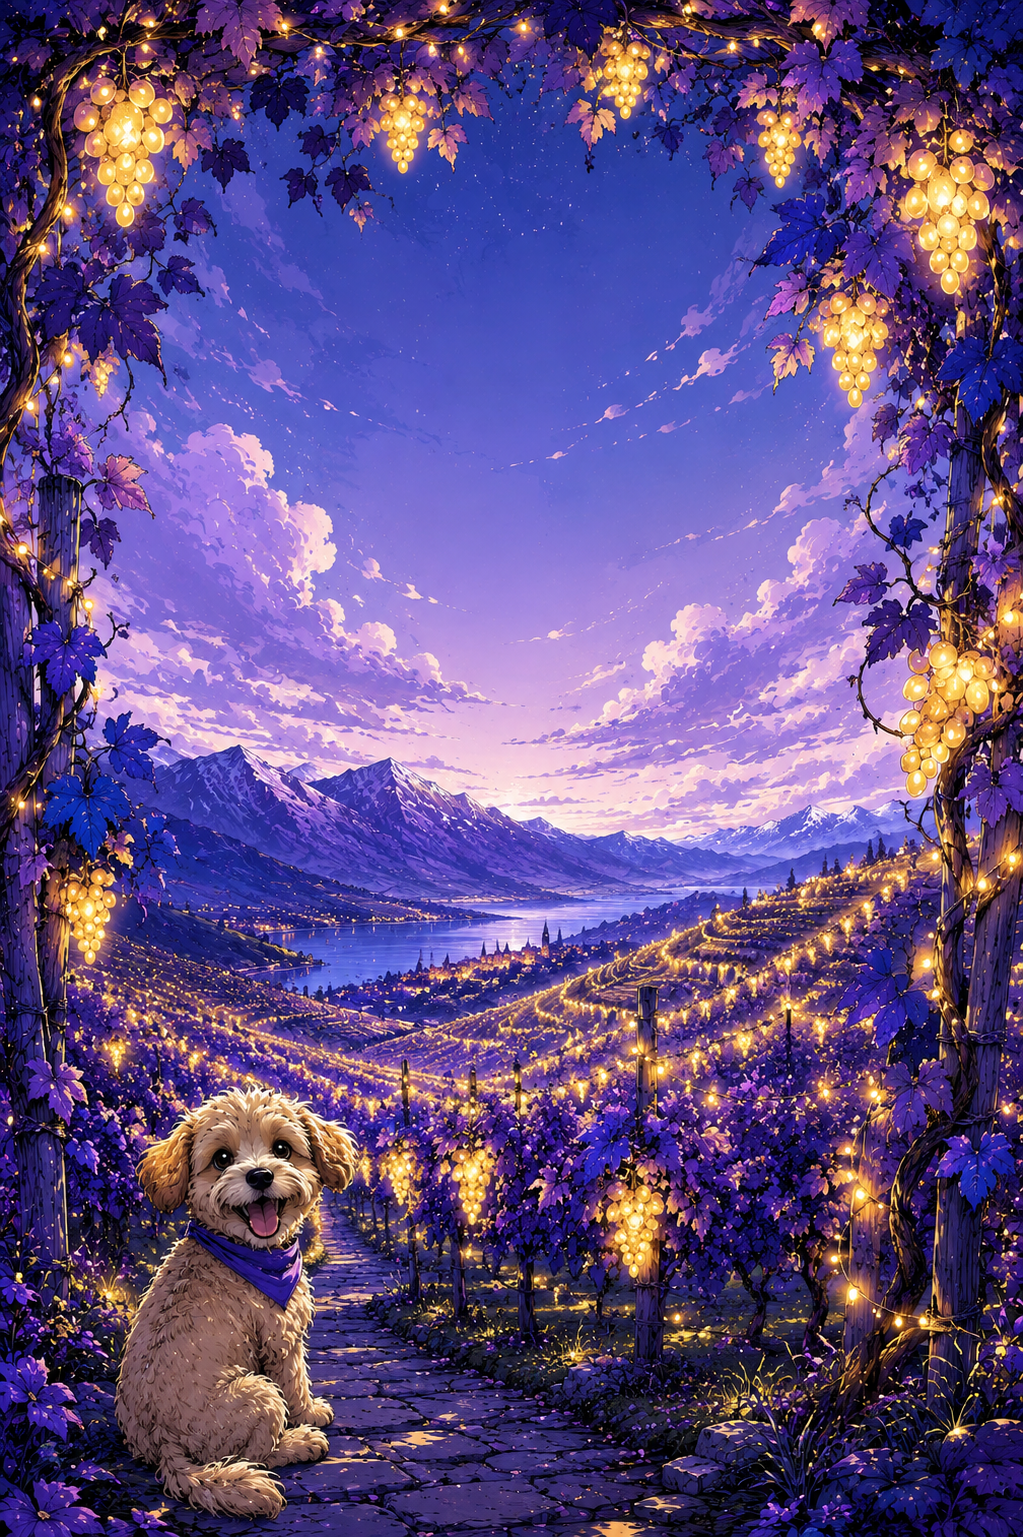
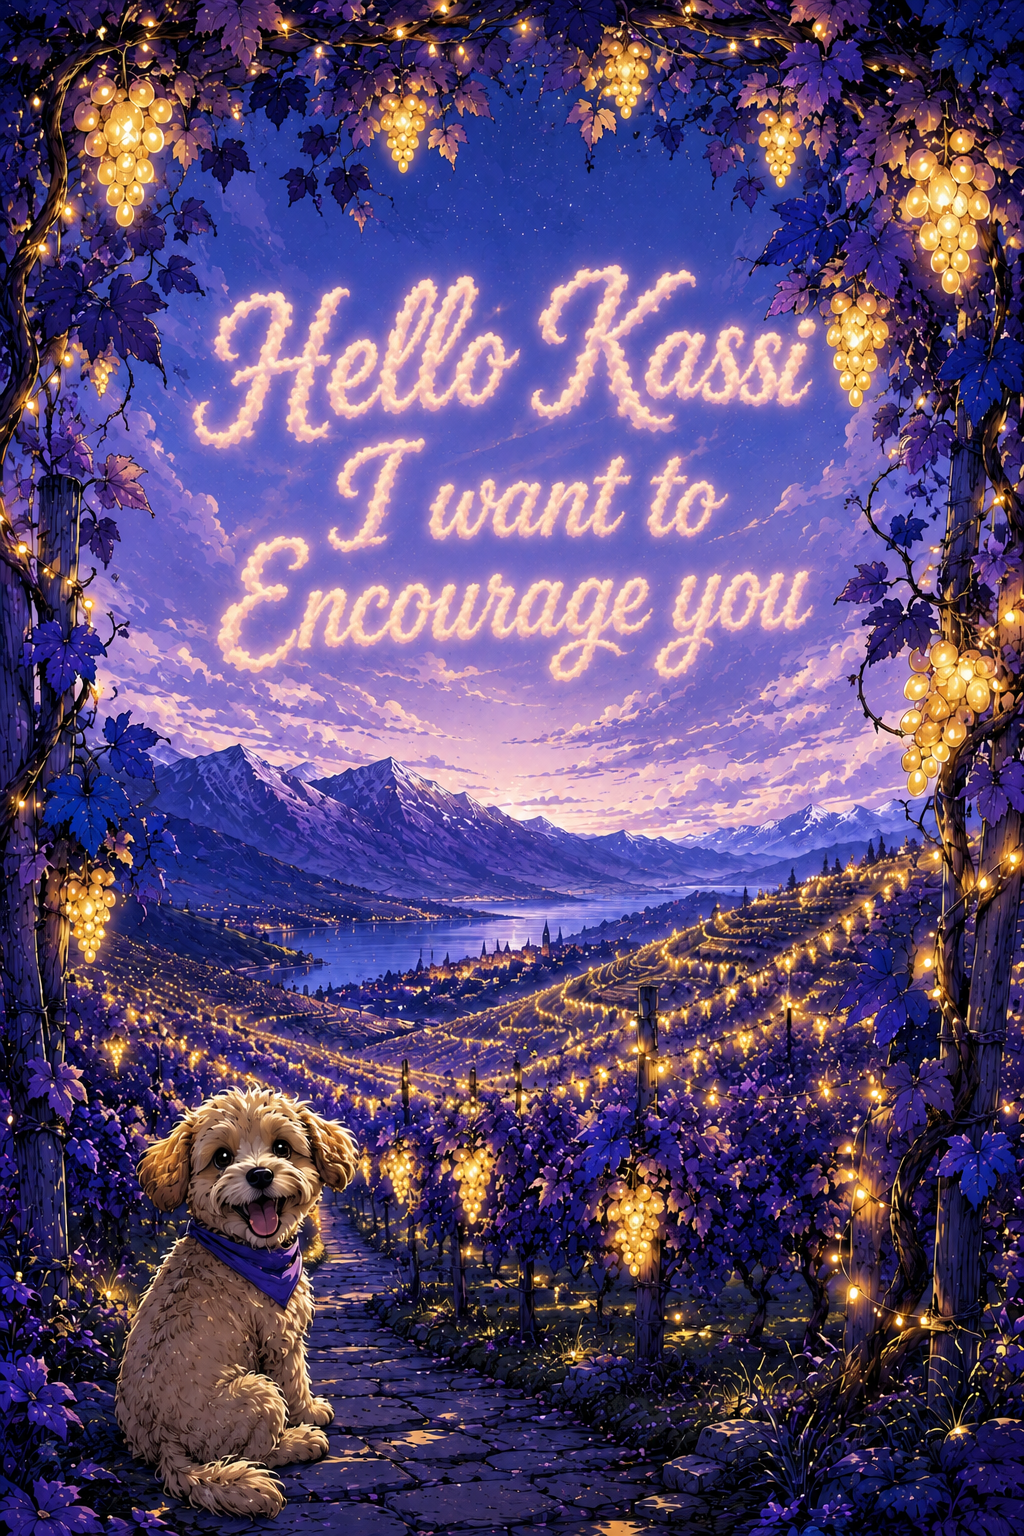
Update published Letter Smith letter

diff --git a/grace-peace/index.html b/grace-peace/index.html
@@ -4,7 +4,7 @@
 <head>
   <meta charset="UTF-8">
   <meta name="viewport" content="width=device-width, initial-scale=1.0">
-  <meta http-equiv="Content-Security-Policy" content="default-src 'none'; script-src 'nonce-JitcNl7ehStzmIMkCUQcvgRhdyeYm9a9'; style-src 'self' 'unsafe-inline'; img-src 'self' data:; media-src 'self'; font-src 'self' data:; connect-src 'none'; object-src 'none'; base-uri 'none'; form-action 'none'; frame-src 'none'; worker-src 'none'">
+  <meta http-equiv="Content-Security-Policy" content="default-src 'none'; script-src 'nonce-1O3Mnvoq2RPrtves-rWmzVG3Asct-iPr'; style-src 'self' 'unsafe-inline'; img-src 'self' data:; media-src 'self'; font-src 'self' data:; connect-src 'none'; object-src 'none'; base-uri 'none'; form-action 'none'; frame-src 'none'; worker-src 'none'">
   <title>Grace &amp; Peace</title>
   <link rel="stylesheet" href="styles.css">
 
@@ -151,7 +151,7 @@
   <audio id="bg-music" preload="auto" playsinline></audio>
   <audio id="bg-music-standby" preload="auto" playsinline></audio>
 
-  <script nonce="JitcNl7ehStzmIMkCUQcvgRhdyeYm9a9">
+  <script nonce="1O3Mnvoq2RPrtves-rWmzVG3Asct-iPr">
     const INITIAL_VOLUME = 23;
     const MUSIC_PLAYLIST = ["gallery/sounds/music.mp3", "gallery/sounds/music-002.mp3", "gallery/sounds/music-003.mp3", "gallery/sounds/music-004.mp3"];
     const MUSIC_CROSSFADE_MS = 1000;
@@ -159,6 +159,6 @@
     const HAS_MESSAGE = true;
   </script>
 
-  <script nonce="JitcNl7ehStzmIMkCUQcvgRhdyeYm9a9" src="script.js"></script>
+  <script nonce="1O3Mnvoq2RPrtves-rWmzVG3Asct-iPr" src="script.js"></script>
 </body>
 </html>
